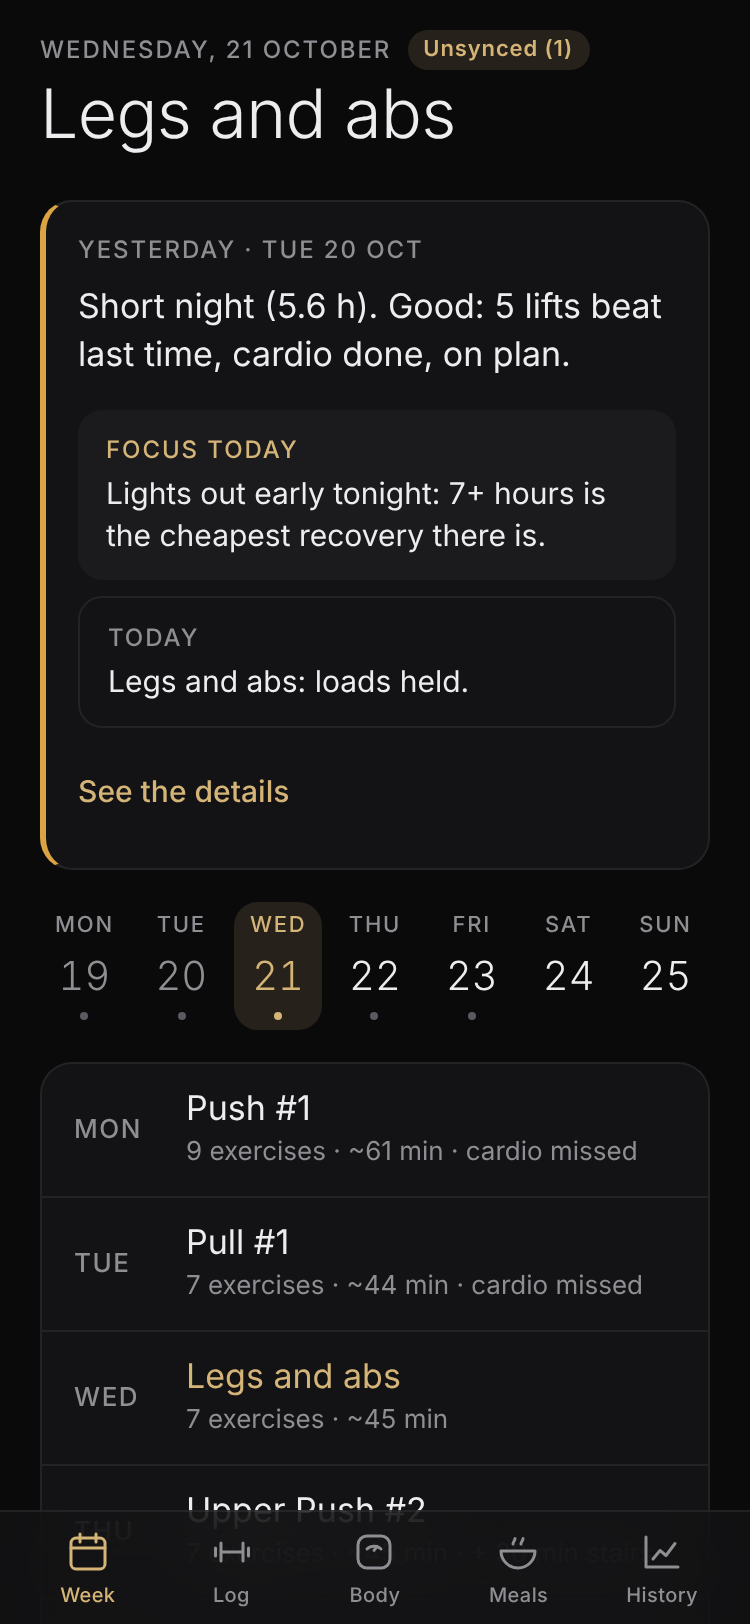
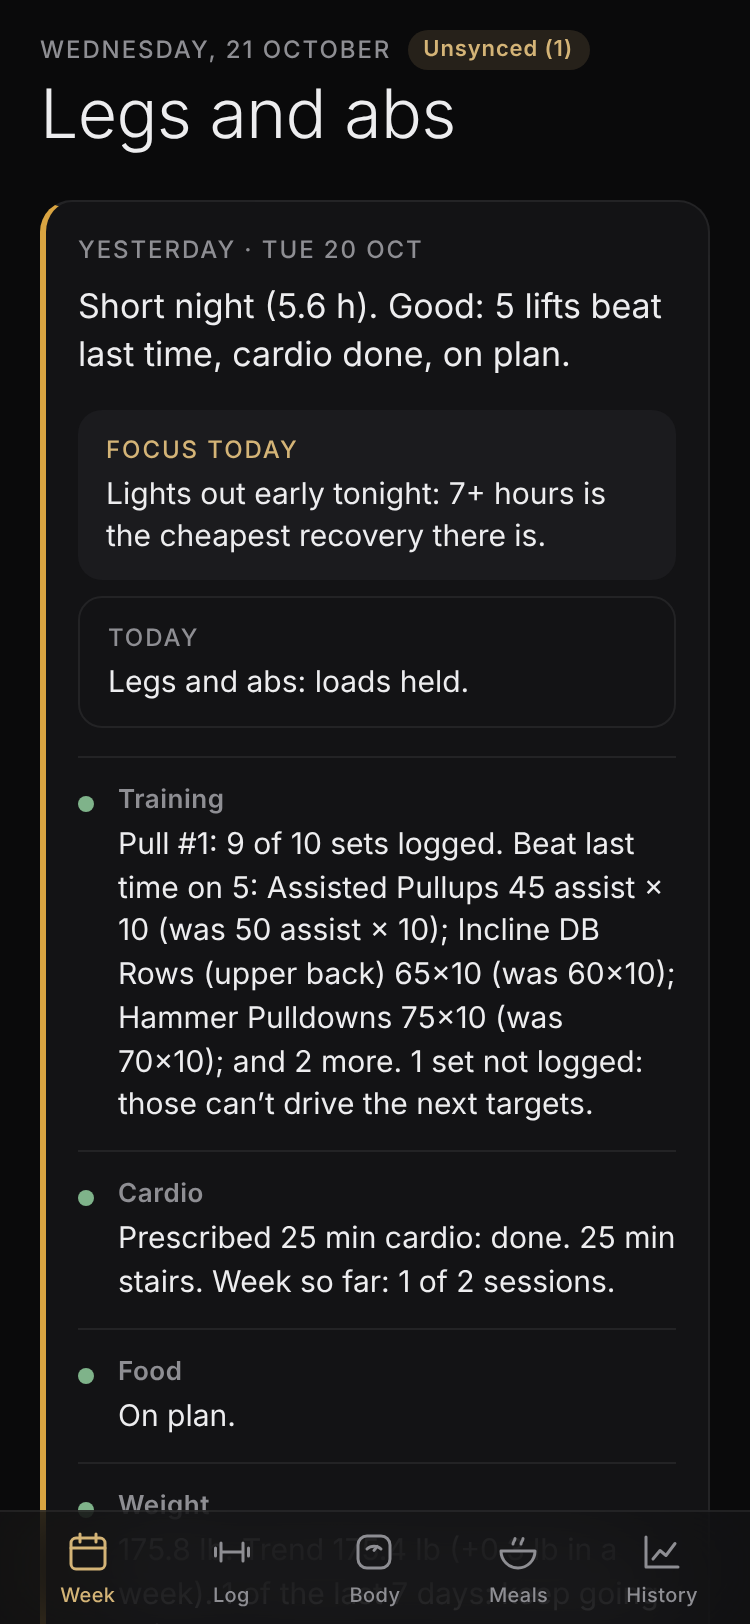
Week in review opens and closes from its header; Yesterday stays open
- Week in review: the whole header (title + headline + chevron) is a
  button that opens and closes the focus and the details; starts closed,
  remembered per week on this phone (localStorage wm.review.<week>)
- Yesterday card: always fully open, no toggle
- e2e: review starts closed, opens, closes, stays as left across tabs;
  the daily card has nothing to toggle; stage-8 screenshots h04/h05

Claude-Session: https://claude.ai/code/session_014aJiH9Rgq3VrfiuXciGymN

diff --git a/app/views/week.js b/app/views/week.js
@@ -17,7 +17,7 @@ import { dayForWeekday } from '../../coach/program.js';
 const OPEN_DAY = 'Rest, or runs, rides, swims and social sessions, read from Strava.';
 // Same values as the seeded model (brief §5); used only if the model record is missing.
 const DEFAULT_BANDS = { cut: { target: [-0.75, -0.5], slow_limit: -0.4, cap: -1.0 }, bulk: { target: [0.1, 0.2], cap: 0.35 }, maintenance: { target: [-0.1, 0.1] } };
-const ui = { summaryOpen: {}, dailyOpen: {} };
+const ui = { summaryOpen: {} };
 
 export async function render(screen, ctx) {
   const today = ctx.today();
@@ -159,53 +159,50 @@ async function buildSummary(ctx, { today, checkins, training, plans }) {
   });
 }
 
-// Yesterday in review + today's focus (the morning run's targets.daily). The headline,
-// focus and today's plan always show; the per-area details fold.
+// Yesterday in review + today's focus (the morning run's targets.daily). Always fully
+// open (Walter, 2026-10-13): the headline, focus, today's plan and every area.
+const pointList = (points) => h('div', { class: 'summary-points' },
+  points.map((p) => h('div', { class: 'summary-point' },
+    h('span', { class: `dot ${p.tone}`, 'aria-hidden': 'true' }),
+    h('div', { class: 'grow' }, h('div', { class: 'pt-title' }, p.title), h('p', {}, p.text)))));
+
 function dailyCard(d) {
-  const open = Boolean(ui.dailyOpen[d.date]);
-  const details = h('div', { class: 'summary-points', hidden: !open },
-    d.points.map((p) => h('div', { class: 'summary-point' },
-      h('span', { class: `dot ${p.tone}`, 'aria-hidden': 'true' }),
-      h('div', { class: 'grow' }, h('div', { class: 'pt-title' }, p.title), h('p', {}, p.text)))));
-  const toggle = h('button', { type: 'button', class: 'link-btn', 'aria-expanded': String(open) }, open ? 'Hide details' : 'See the details');
-  toggle.addEventListener('click', () => {
-    const now = details.hidden;
-    details.hidden = !now;
-    ui.dailyOpen[d.date] = now;
-    toggle.textContent = now ? 'Hide details' : 'See the details';
-    toggle.setAttribute('aria-expanded', String(now));
-  });
   return h('section', { class: `card summary daily ${d.tone}`, 'aria-label': 'Yesterday in review', style: 'margin-bottom:16px' },
     h('p', { class: 'label' }, `Yesterday · ${d.label}`),
     h('p', { class: 'headline' }, d.headline),
     h('div', { class: 'focus' }, h('span', { class: 'label' }, 'Focus today'), h('span', {}, d.focus)),
     d.today ? h('div', { class: 'focus today' }, h('span', { class: 'label' }, 'Today'), h('span', {}, d.today)) : null,
-    details,
-    toggle);
+    pointList(d.points));
 }
 
+
+// Week in review: a box that opens and closes with a tap anywhere on its header
+// (Walter, 2026-10-13). Starts closed; this phone remembers how each week's was left.
+const reviewKey = (week) => `wm.review.${week}`;
+function reviewOpen(week) {
+  if (week in ui.summaryOpen) return ui.summaryOpen[week];
+  try { return localStorage.getItem(reviewKey(week)) === 'open'; } catch { return false; }
+}
 function summaryCard(sum) {
-  // open on check-in day and the day after; later it folds to the headline (tap to read)
-  const open = ui.summaryOpen[sum.week_of] ?? sum.days_since <= 1;
+  let open = reviewOpen(sum.week_of);
   const range = sum.period.from.slice(5, 7) === sum.period.to.slice(5, 7)
     ? `${Number(sum.period.from.slice(8))}–${formatDayMonth(sum.period.to)}`
     : `${formatDayMonth(sum.period.from)} – ${formatDayMonth(sum.period.to)}`;
-  const details = h('div', { class: 'summary-points', hidden: !open },
-    sum.points.map((p) => h('div', { class: 'summary-point' },
-      h('span', { class: `dot ${p.tone}`, 'aria-hidden': 'true' }),
-      h('div', { class: 'grow' }, h('div', { class: 'pt-title' }, p.title), h('p', {}, p.text)))));
-  const toggle = h('button', { type: 'button', class: 'link-btn', 'aria-expanded': String(open) }, open ? 'Hide details' : 'Read the full review');
-  toggle.addEventListener('click', () => {
-    const now = details.hidden;
-    details.hidden = !now;
-    ui.summaryOpen[sum.week_of] = now;
-    toggle.textContent = now ? 'Hide details' : 'Read the full review';
-    toggle.setAttribute('aria-expanded', String(now));
-  });
-  return h('section', { class: `card summary ${sum.tone}`, 'aria-label': 'Week in review', style: 'margin-bottom:16px' },
-    h('p', { class: 'label' }, `Week in review · ${range}`),
-    h('p', { class: 'headline' }, sum.headline),
+  const id = `review-${sum.week_of}`;
+  const body = h('div', { class: 'summary-body', id, hidden: !open },
     h('div', { class: 'focus' }, h('span', { class: 'label' }, 'Focus'), h('span', {}, sum.focus)),
-    details,
-    toggle);
+    pointList(sum.points));
+  const head = h('button', { type: 'button', class: 'summary-head', 'aria-expanded': String(open), 'aria-controls': id },
+    h('span', { class: 'grow' },
+      h('span', { class: 'label' }, `Week in review · ${range}`),
+      h('span', { class: 'headline' }, sum.headline)),
+    h('span', { class: 'chev', 'aria-hidden': 'true' }, icon('chevron', { size: 18 })));
+  head.addEventListener('click', () => {
+    open = !open;
+    body.hidden = !open;
+    head.setAttribute('aria-expanded', String(open));
+    ui.summaryOpen[sum.week_of] = open;
+    try { localStorage.setItem(reviewKey(sum.week_of), open ? 'open' : 'closed'); } catch { /* private mode: this session only */ }
+  });
+  return h('section', { class: `card summary ${sum.tone}`, 'aria-label': 'Week in review', style: 'margin-bottom:16px' }, head, body);
 }

diff --git a/app/styles.css b/app/styles.css
@@ -673,3 +673,10 @@ body.resting .screen { padding-bottom: calc(var(--tabbar-h) + var(--safe-bottom)
 .cardio-week span.today { font-weight: 700; text-decoration: underline; text-underline-offset: 3px; }
 .card.summary .focus.today { margin-top: 8px; background: transparent; border: 1px solid var(--hairline); }
 .card.summary .focus.today .label { color: var(--text-2); }
+/* Week in review opens and closes from its header */
+.summary-head { display: flex; align-items: flex-start; gap: 12px; width: 100%; padding: 0; margin: 0; border: 0; background: none; color: inherit; text-align: left; cursor: pointer; font: inherit; }
+.summary-head .label { display: block; }
+.summary-head .headline { display: block; margin: 8px 0 0; font-size: 17px; line-height: 1.45; color: var(--text); }
+.summary-head .chev { flex: 0 0 auto; margin-top: 1px; color: var(--text-2); transform: rotate(90deg); transition: transform var(--dur) var(--ease); }
+.summary-head[aria-expanded="true"] .chev { transform: rotate(-90deg); }
+.summary-body[hidden] { display: none; }

diff --git a/CLAUDE.md b/CLAUDE.md
@@ -86,7 +86,8 @@ The new service worker installs in the background and waits. Walter sees "Update
 ## Week in review (weekly executive summary)
 - `weeklySummary()` in `coach/summary.js` (pure; the weekly routine reuses it and adds its macro decision). It reviews the 7 days ending on the check-in, in spec §10 order: adherence, weigh-ins, rate vs the mode's band, training (sessions, main lifts by best-set e1RM, increases, resets), waist vs limbs, biofeedback, then the plan. The headline names the first problem in that order, then the wins; "Focus" is one action.
 - Tone: state the number and what it means. Don't soften a miss (adherence 50 % is "too low to judge anything"), and always report what went well. Days before the first logged session are never "missed".
-- Shown from the check-in through the plan week after it (`summaryVisibleUntil`). Open on check-in day and the day after, folded to the headline later.
+- Shown from the check-in through the plan week after it (`summaryVisibleUntil`).
+- A box that opens and closes with a tap anywhere on its header (`.summary-head`), showing the title and headline when closed (Walter, 2026-10-13). It starts closed, and the phone remembers each week's state in `localStorage` (`wm.review.<week_of>`). The daily "Yesterday" card is always fully open.
 
 ## GitHub sync and notifications (stage 5)
 - `app/sync.js` (engine, works in Node) and `app/sync-ui.js` (queue, badge, Settings, Restore). The phone is the only writer of `data/log/`: monthly files per store (`data/log/<store>/YYYY-MM.json`), single files for phases, exercise prefs, foods and the synced meta (`settings.json`, `onboarding.json`, `push_subscription.json`). Seeded history (`source: "history"`) is not copied; Restore re-seeds it.

diff --git a/claude/APP_SPEC.md b/claude/APP_SPEC.md
@@ -326,7 +326,8 @@ The coach prescribes cardio as part of each day's workout. Strava and the Stairs
 
 ### 6.6 Daily summary (Walter, 2026-10-13)
 Each morning the Week tab opens on **Yesterday · <date>**: an executive summary of the previous day and the focus for today. It's pure code in `coach/daily.js`, computed by the daily run into `targets/today.json` → `daily`, and recomputed when Health data is re-synced (§2b). The voice is the weekly review's (§10): the numbers first, no softening, always what went well, then one thing to do.
-- **Yesterday, by area** (each with a good / warn / bad dot; folded under "See the details"):
+- **Always fully open** (Walter, 2026-10-13). By contrast, the Week in review is a box that opens and closes with a tap on its header; it starts closed and the phone remembers how each week's was left.
+- **Yesterday, by area** (each with a good / warn / bad dot):
 
   | Area | What it says |
   |---|---|
